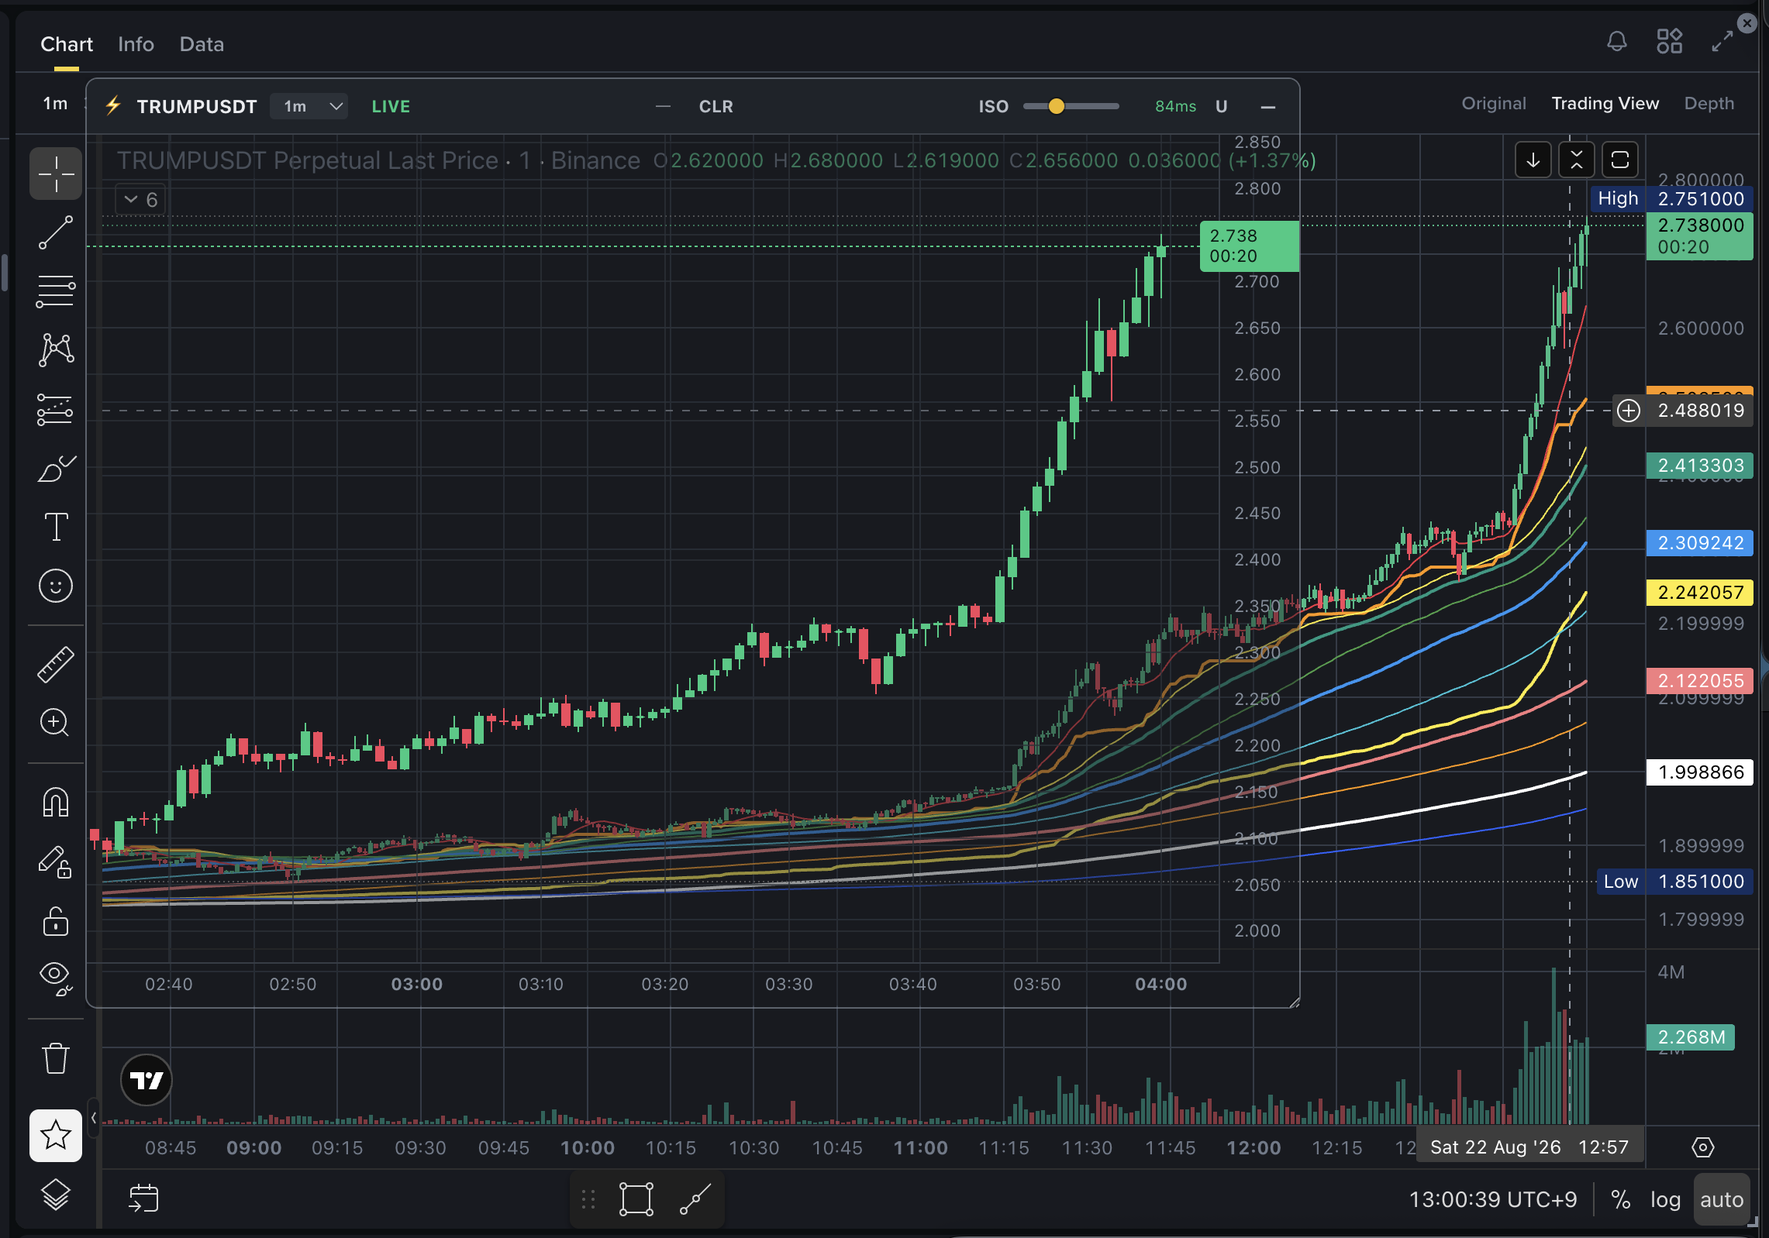
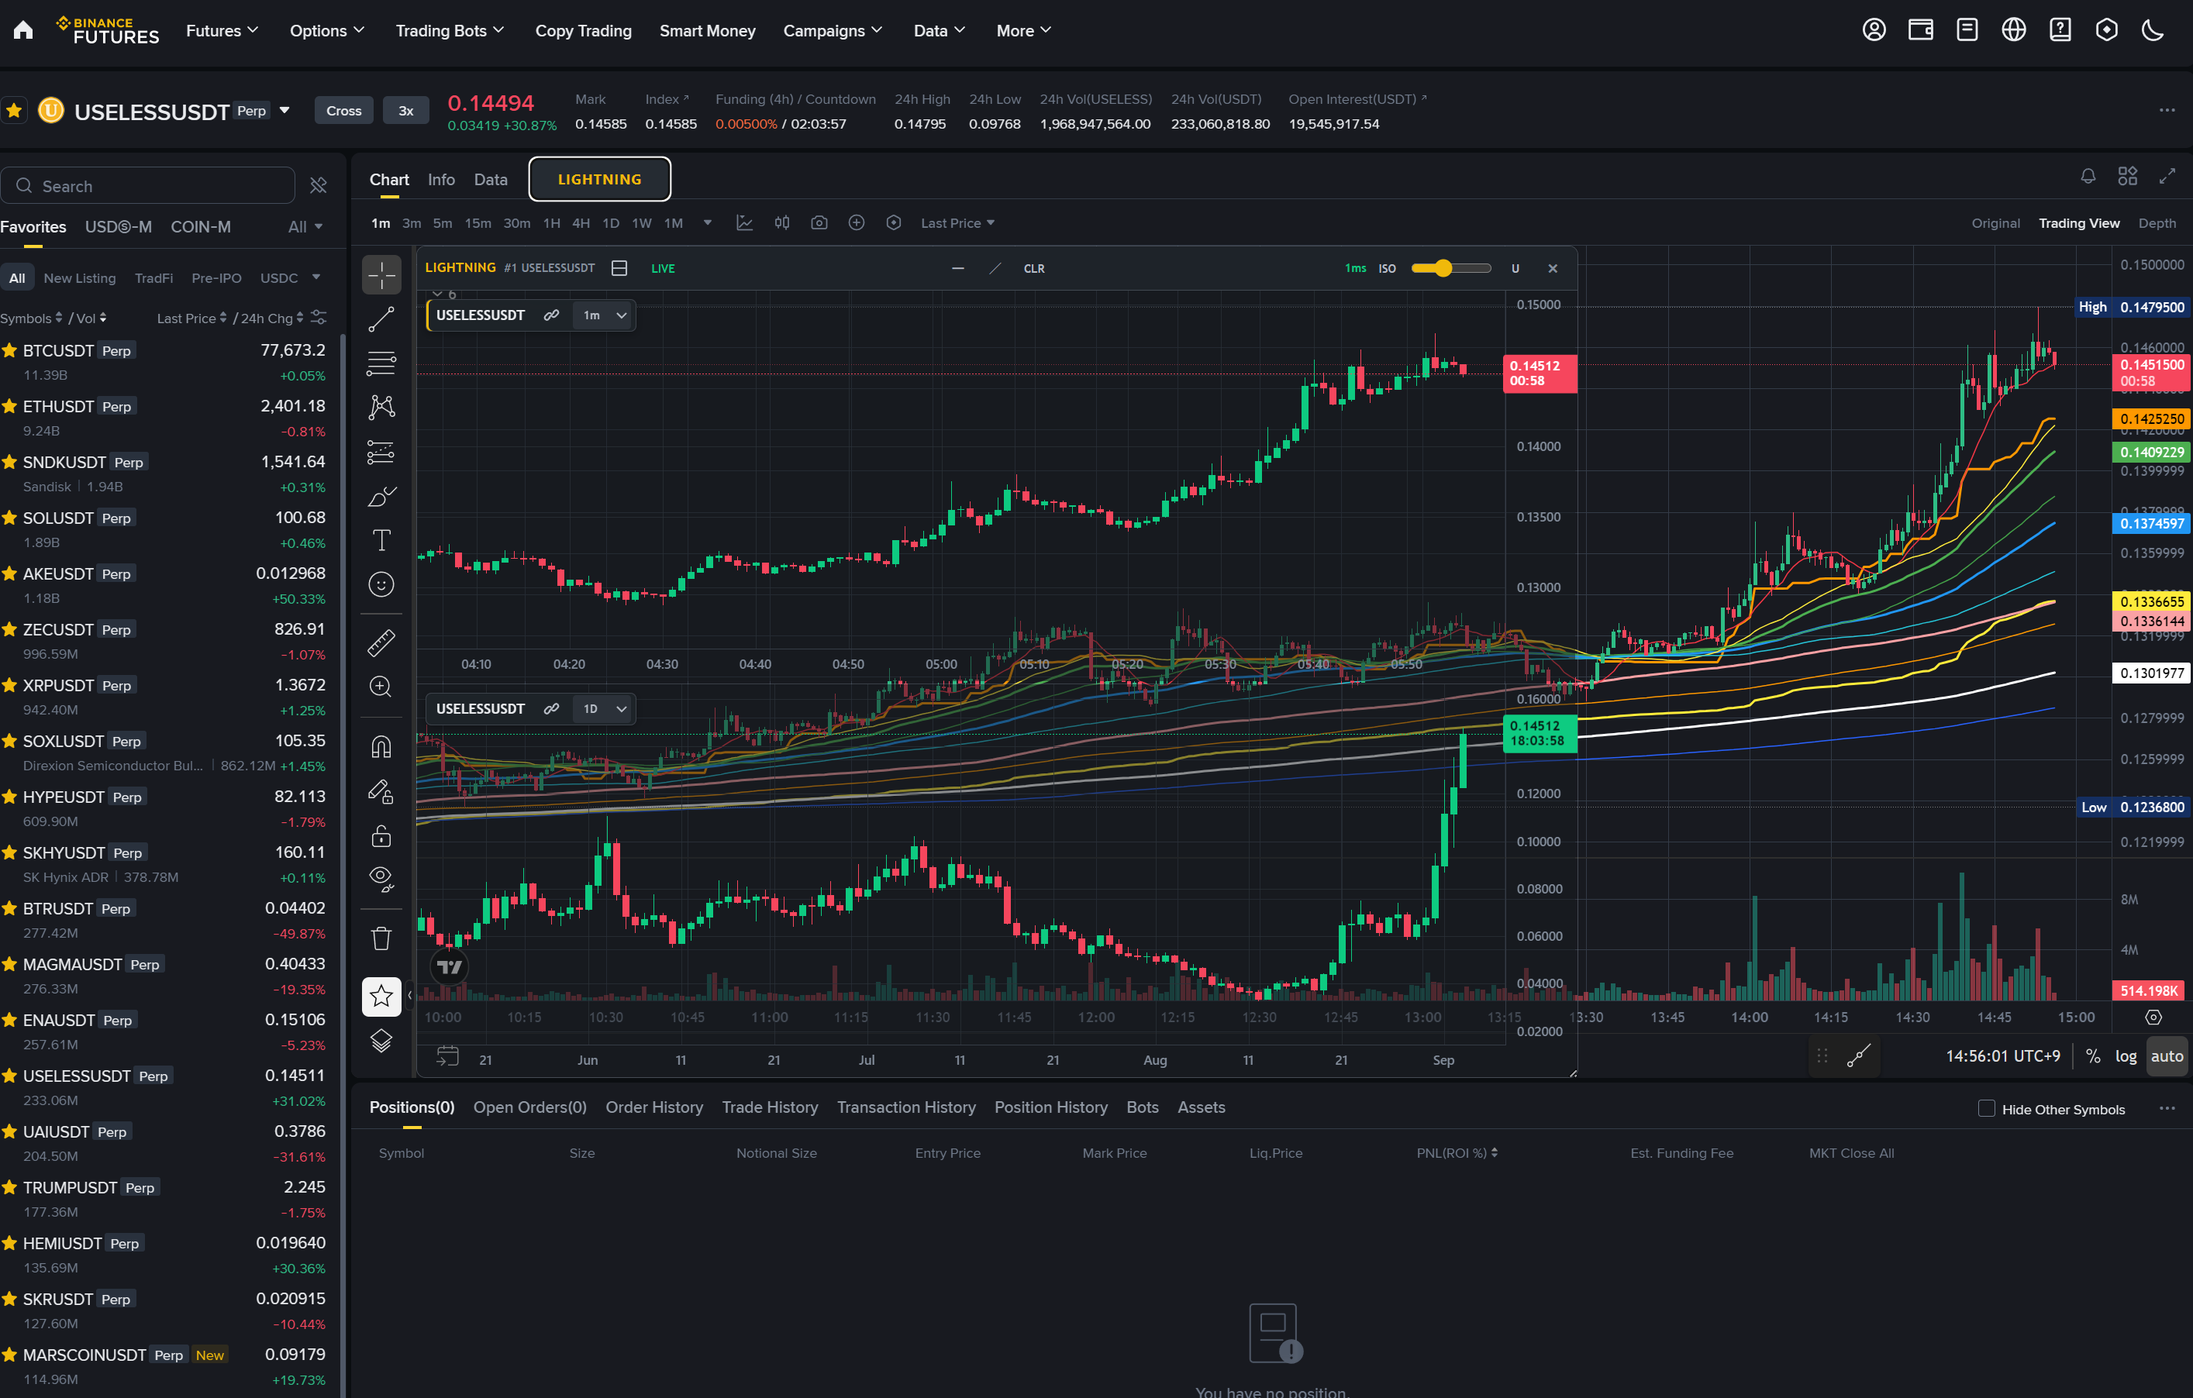
Add files via upload

diff --git a/index.html b/index.html
@@ -2650,7 +2650,7 @@
                                         <span data-i18n="ext.lightning.title">Lightning Candle</span>
                                     </h3>
                                     <p class="text-sm text-gray-400 leading-relaxed !m-0" data-i18n="ext.lightning.desc">
-                                        현재 종목의 실시간 체결 가격을 플로팅 캔들 차트로 보여줍니다. 원본 차트를 가리거나 다른 영역을 확인하는 동안에도 최근 가격 흐름을 빠르게 살펴볼 수 있습니다.
+                                        실시간 체결 가격을 독립 플로팅 차트로 보여줍니다. 최대 4개 차트에서 현재 Binance 종목을 연동하거나 원하는 종목과 타임프레임을 고정해 여러 흐름을 빠르게 비교할 수 있습니다.
                                     </p>
                                 </div>
 
@@ -2666,7 +2666,7 @@
                                     </div>
                                 </div>
 
-                                <div class="grid grid-cols-1 lg:grid-cols-3 gap-4">
+                                <div class="grid grid-cols-1 lg:grid-cols-2 gap-4">
                                     <div class="liquid-card guide-glass-accent guide-glass-green rounded-xl border p-4 transition-all duration-300 hover:-translate-y-1">
                                         <h4 class="text-white font-bold text-sm !mt-0 mb-3 flex items-center gap-2">
                                             <i class="fa-solid fa-chart-line text-brand"></i>
@@ -2674,20 +2674,32 @@
                                         </h4>
                                         <ul class="!pl-0 !mb-0 list-none space-y-2 text-sm text-gray-400 leading-relaxed">
                                             <li class="!pl-0 flex gap-2"><span class="text-brand">•</span><span data-i18n="ext.lightning.chart.item1">최종 체결가와 현재 봉이 끝날 때까지 남은 시간을 표시합니다.</span></li>
-                                            <li class="!pl-0 flex gap-2"><span class="text-brand">•</span><span data-i18n="ext.lightning.chart.item2">1·3·5·15분 차트를 선택할 수 있습니다.</span></li>
-                                            <li class="!pl-0 flex gap-2"><span class="text-brand">•</span><span data-i18n="ext.lightning.chart.item3">마우스 휠로 확대·축소하고 좌우로 이동해 과거 캔들을 확인할 수 있습니다.</span></li>
+                                            <li class="!pl-0 flex gap-2"><span class="text-brand">•</span><span data-i18n="ext.lightning.chart.item2">1·3·5·15·30분, 1·4시간, 1일 차트를 선택할 수 있습니다.</span></li>
+                                            <li class="!pl-0 flex gap-2"><span class="text-brand">•</span><span data-i18n="ext.lightning.chart.item3">LIVE는 모든 차트의 캔들 간격과 우측 여백을 맞추고 최신 위치로 즉시 정렬합니다.</span></li>
+                                        </ul>
+                                    </div>
+
+                                    <div class="liquid-card guide-glass-accent guide-glass-yellow rounded-xl border p-4 transition-all duration-300 hover:-translate-y-1">
+                                        <h4 class="text-white font-bold text-sm !mt-0 mb-3 flex items-center gap-2">
+                                            <i class="fa-solid fa-table-cells-large text-brand"></i>
+                                            <span data-i18n="ext.lightning.multi.title">멀티차트와 종목 연동</span>
+                                        </h4>
+                                        <ul class="!pl-0 !mb-0 list-none space-y-2 text-sm text-gray-400 leading-relaxed">
+                                            <li class="!pl-0 flex gap-2"><span class="text-brand">•</span><span data-i18n="ext.lightning.multi.item1">1개, 좌우·상하 2개, 4개 차트 레이아웃을 선택할 수 있습니다.</span></li>
+                                            <li class="!pl-0 flex gap-2"><span class="text-brand">•</span><span data-i18n="ext.lightning.multi.item2">각 차트를 현재 Binance 종목과 연동하거나 원하는 종목으로 고정할 수 있습니다.</span></li>
+                                            <li class="!pl-0 flex gap-2"><span class="text-brand">•</span><span data-i18n="ext.lightning.multi.item3">같은 종목을 여러 타임프레임으로 보거나 서로 다른 종목을 한 화면에서 비교할 수 있습니다.</span></li>
                                         </ul>
                                     </div>
 
                                     <div class="liquid-card guide-glass-accent guide-glass-blue rounded-xl border p-4 transition-all duration-300 hover:-translate-y-1">
                                         <h4 class="text-white font-bold text-sm !mt-0 mb-3 flex items-center gap-2">
                                             <i class="fa-solid fa-ruler-combined text-accent-blue"></i>
-                                            <span data-i18n="ext.lightning.tools.title">측정과 수평선</span>
+                                            <span data-i18n="ext.lightning.tools.title">측정과 그리기 도구</span>
                                         </h4>
                                         <ul class="!pl-0 !mb-0 list-none space-y-2 text-sm text-gray-400 leading-relaxed">
                                             <li class="!pl-0 flex gap-2"><span class="text-accent-blue">•</span><span data-i18n="ext.lightning.tools.item1">Shift+클릭으로 가격·등락률·봉 수·경과 시간을 측정합니다.</span></li>
-                                            <li class="!pl-0 flex gap-2"><span class="text-accent-blue">•</span><span data-i18n="ext.lightning.tools.item2">상단 수평선 도구 또는 Alt+클릭으로 원하는 가격에 수평선을 추가합니다.</span></li>
-                                            <li class="!pl-0 flex gap-2"><span class="text-accent-blue">•</span><span data-i18n="ext.lightning.tools.item3">선택한 선은 Delete로 삭제하고, CLR로 모든 수평선을 지웁니다.</span></li>
+                                            <li class="!pl-0 flex gap-2"><span class="text-accent-blue">•</span><span data-i18n="ext.lightning.tools.item2">수평선과 두 지점을 잇는 추세선을 차트 위에 직접 그릴 수 있습니다.</span></li>
+                                            <li class="!pl-0 flex gap-2"><span class="text-accent-blue">•</span><span data-i18n="ext.lightning.tools.item3">우클릭으로 그리기·선택을 취소하고, Delete로 선택한 선을 삭제하거나 CLR로 수평선을 모두 지웁니다.</span></li>
                                         </ul>
                                     </div>
 
@@ -2792,16 +2804,16 @@
                                         class="group block lg:col-span-2 rounded-xl overflow-hidden border border-gray-700 bg-[#0b0e11] transition-all duration-500 hover:border-brand/60 hover:shadow-[0_0_25px_rgba(240,185,11,0.15)] hover:-translate-y-1">
                                         <div class="aspect-[16/10] overflow-hidden bg-black/30">
                                             <img src="./assets/extensions/lightning-candle-full.png"
-                                                alt="Expanded Lightning Candle overlay with ISO transparency"
+                                                alt="Lightning Candle two-chart layout with synchronized live controls"
                                                 loading="lazy"
                                                 class="w-full h-full object-cover object-top transition-transform duration-700 group-hover:scale-[1.015]">
                                         </div>
                                         <div class="p-4 border-t border-gray-800">
                                             <h4 class="text-white font-bold text-sm !mt-0 mb-1 flex items-center gap-2">
                                                 <i class="fa-solid fa-expand text-brand"></i>
-                                                <span data-i18n="ext.lightning.image.full.title">전체 화면 사용 예시</span>
+                                                <span data-i18n="ext.lightning.image.full.title">멀티차트 사용 예시</span>
                                             </h4>
-                                            <p class="text-sm text-gray-400 leading-relaxed !m-0" data-i18n="ext.lightning.image.full.desc">원본 차트 위에서 투명도와 크기를 조절해 두 가격 흐름을 함께 비교할 수 있습니다.</p>
+                                            <p class="text-sm text-gray-400 leading-relaxed !m-0" data-i18n="ext.lightning.image.full.desc">같은 종목의 1분·1일 차트를 함께 배치하고 투명도를 조절해 단기 체결 흐름과 큰 추세를 동시에 확인한 예시입니다.</p>
                                         </div>
                                     </a>
                                 </div>
@@ -5886,25 +5898,29 @@
             "ext.binance.feature.item3": { ko: "주문 취소와 포지션 종료 버튼을 주문 영역 가까이에서 바로 사용할 수 있습니다.", en: "Places cancel-order and close-position buttons close to the order area for quick access." },
             "ext.binance.feature.item4": { ko: "주문 생성과 취소 결과를 소리로 바로 알려줍니다.", en: "Provides an immediate sound cue when orders are created or canceled." },
             "ext.lightning.title": { ko: "Lightning Candle", en: "Lightning Candle" },
-            "ext.lightning.desc": { ko: "현재 종목의 실시간 체결 가격을 플로팅 캔들 차트로 보여줍니다. 원본 차트를 가리거나 다른 영역을 확인하는 동안에도 최근 가격 흐름을 빠르게 살펴볼 수 있습니다.", en: "Shows the current symbol's live traded price in a floating candlestick chart, so recent price action remains easy to follow while other parts of the page are in use." },
+            "ext.lightning.desc": { ko: "실시간 체결 가격을 독립 플로팅 차트로 보여줍니다. 최대 4개 차트에서 현재 Binance 종목을 연동하거나 원하는 종목과 타임프레임을 고정해 여러 흐름을 빠르게 비교할 수 있습니다.", en: "Shows live traded prices in an independent floating chart. Use up to four charts linked to the current Binance symbol, or lock each chart to a chosen symbol and timeframe for quick comparison." },
             "ext.lightning.why.title": { ko: "왜 별도의 실시간 차트가 필요한가요?", en: "Why a Separate Real-time Chart?" },
             "ext.lightning.why.desc": { ko: "빠른 변동 구간에서는 Binance 기본 차트가 스캘핑 타점을 확인하기에 다소 느리게 느껴질 수 있습니다. Lightning Candle은 최근 체결 흐름을 빠르게 보여주어 현재 가격 움직임과 진입 시점을 더 날렵하게 확인할 수 있도록 돕습니다.", en: "During fast moves, the default Binance chart can feel slow when judging scalping entries. Lightning Candle presents recent trades quickly, making current price movement and entry timing easier to follow." },
             "ext.lightning.chart.title": { ko: "차트 보기", en: "Viewing the Chart" },
             "ext.lightning.chart.item1": { ko: "최종 체결가와 현재 봉이 끝날 때까지 남은 시간을 표시합니다.", en: "Shows the latest traded price and the time remaining in the current candle." },
-            "ext.lightning.chart.item2": { ko: "1·3·5·15분 차트를 선택할 수 있습니다.", en: "Choose a 1, 3, 5, or 15-minute chart." },
-            "ext.lightning.chart.item3": { ko: "마우스 휠로 확대·축소하고 좌우로 이동해 과거 캔들을 확인할 수 있습니다.", en: "Zoom with the mouse wheel and move left or right to view earlier candles." },
-            "ext.lightning.tools.title": { ko: "측정과 수평선", en: "Measurement & Horizontal Lines" },
+            "ext.lightning.chart.item2": { ko: "1·3·5·15·30분, 1·4시간, 1일 차트를 선택할 수 있습니다.", en: "Choose 1, 3, 5, 15, or 30 minutes, 1 or 4 hours, or 1 day." },
+            "ext.lightning.chart.item3": { ko: "LIVE는 모든 차트의 캔들 간격과 우측 여백을 맞추고 최신 위치로 즉시 정렬합니다.", en: "LIVE restores candle spacing and the right margin across every chart, then aligns them to the latest position immediately." },
+            "ext.lightning.multi.title": { ko: "멀티차트와 종목 연동", en: "Multi-chart & Symbol Linking" },
+            "ext.lightning.multi.item1": { ko: "1개, 좌우·상하 2개, 4개 차트 레이아웃을 선택할 수 있습니다.", en: "Choose a single chart, two charts side by side or stacked, or a four-chart layout." },
+            "ext.lightning.multi.item2": { ko: "각 차트를 현재 Binance 종목과 연동하거나 원하는 종목으로 고정할 수 있습니다.", en: "Link each chart to the current Binance symbol or lock it to a symbol of your choice." },
+            "ext.lightning.multi.item3": { ko: "같은 종목을 여러 타임프레임으로 보거나 서로 다른 종목을 한 화면에서 비교할 수 있습니다.", en: "View one symbol across multiple timeframes or compare different symbols on one screen." },
+            "ext.lightning.tools.title": { ko: "측정과 그리기 도구", en: "Measurement & Drawing Tools" },
             "ext.lightning.tools.item1": { ko: "Shift+클릭으로 가격·등락률·봉 수·경과 시간을 측정합니다.", en: "Use Shift+click to measure price, percentage change, candle count, and elapsed time." },
-            "ext.lightning.tools.item2": { ko: "상단 수평선 도구 또는 Alt+클릭으로 원하는 가격에 수평선을 추가합니다.", en: "Add a horizontal line at a target price with the top-bar line tool or Alt+click." },
-            "ext.lightning.tools.item3": { ko: "선택한 선은 Delete로 삭제하고, CLR로 모든 수평선을 지웁니다.", en: "Press Delete to remove the selected line, or use CLR to remove all horizontal lines." },
+            "ext.lightning.tools.item2": { ko: "수평선과 두 지점을 잇는 추세선을 차트 위에 직접 그릴 수 있습니다.", en: "Draw horizontal levels and trend lines connecting two points directly on the chart." },
+            "ext.lightning.tools.item3": { ko: "우클릭으로 그리기·선택을 취소하고, Delete로 선택한 선을 삭제하거나 CLR로 수평선을 모두 지웁니다.", en: "Right-click to cancel drawing or selection, use Delete to remove the selected line, or CLR to clear all horizontal lines." },
             "ext.lightning.window.title": { ko: "위치·크기·투명도", en: "Position, Size & Opacity" },
             "ext.lightning.window.item1": { ko: "접힌 버튼과 펼친 차트를 각각 원하는 위치로 옮기고, 차트 크기와 최대화 상태를 조절할 수 있습니다.", en: "Move the collapsed button and expanded chart separately, then adjust the chart size or maximize it." },
             "ext.lightning.window.item2": { ko: "ISO는 차트 배경을, ALL은 상단바를 제외한 차트 전체를 투명하게 조절합니다.", en: "ISO adjusts chart-background transparency; ALL adjusts the entire chart except the top bar." },
             "ext.lightning.window.item3": { ko: "설정의 RESET LIGHTNING POSITION은 버튼과 차트 위치·크기·접힘 상태를 함께 초기화합니다.", en: "RESET LIGHTNING POSITION in Settings resets the button and chart positions, size, and collapsed state together." },
             "ext.lightning.image.entry.title": { ko: "LIGHTNING 버튼으로 실행", en: "Launch with the LIGHTNING Button" },
             "ext.lightning.image.entry.desc": { ko: "Binance Futures 차트 상단의 버튼을 눌러 플로팅 차트를 열고 접습니다.", en: "Use the button above the Binance Futures chart to open or collapse the floating chart." },
-            "ext.lightning.image.full.title": { ko: "전체 화면 사용 예시", en: "Expanded Chart Example" },
-            "ext.lightning.image.full.desc": { ko: "원본 차트 위에서 투명도와 크기를 조절해 두 가격 흐름을 함께 비교할 수 있습니다.", en: "Adjust opacity and size over the original chart to compare both price views together." },
+            "ext.lightning.image.full.title": { ko: "멀티차트 사용 예시", en: "Multi-chart Example" },
+            "ext.lightning.image.full.desc": { ko: "같은 종목의 1분·1일 차트를 함께 배치하고 투명도를 조절해 단기 체결 흐름과 큰 추세를 동시에 확인한 예시입니다.", en: "This example places 1-minute and 1-day charts for the same symbol together, using transparency to monitor short-term trades and the broader trend at once." },
             "ext.lightning.note": { ko: "Lightning Candle은 빠른 시세 확인을 위한 보조 차트이며 주문 실행, 포지션 및 오픈오더 표시는 제공하지 않습니다. 실제 주문과 계정 정보는 Binance 공식 화면에서 확인하세요.", en: "Lightning Candle is a companion chart for fast market monitoring. It does not execute orders or display positions and open orders. Confirm actual orders and account information on the official Binance screen." },
             "ext.install.title": { ko: "설치 및 활성화", en: "Install & Activate" },
             "ext.install.desc": { ko: "Trading API Launcher에서 받은 Binance Manager를 Chrome에 추가해 사용합니다.", en: "Add Binance Manager from Trading API Launcher to Chrome to begin using it." },
